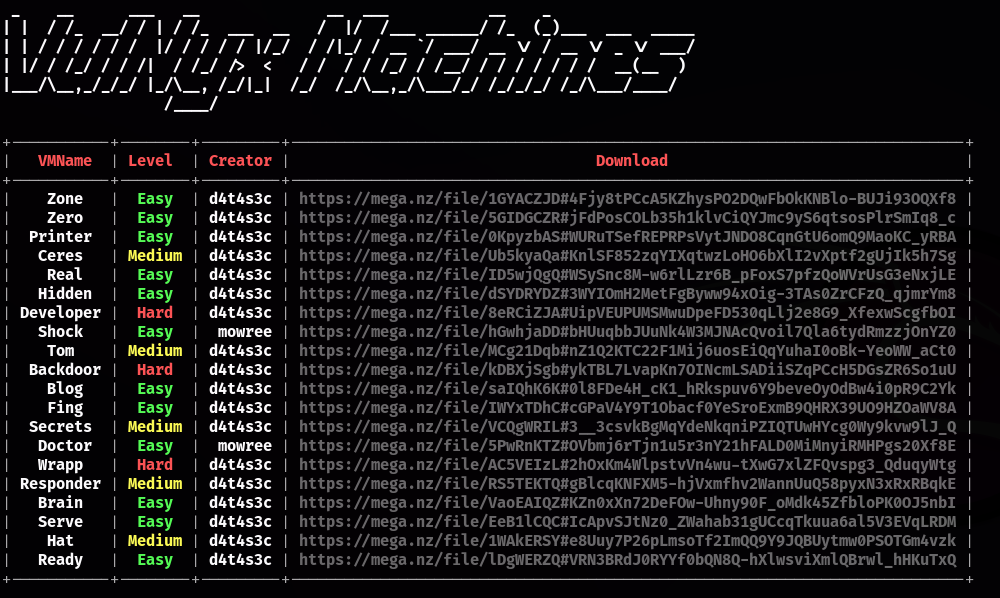
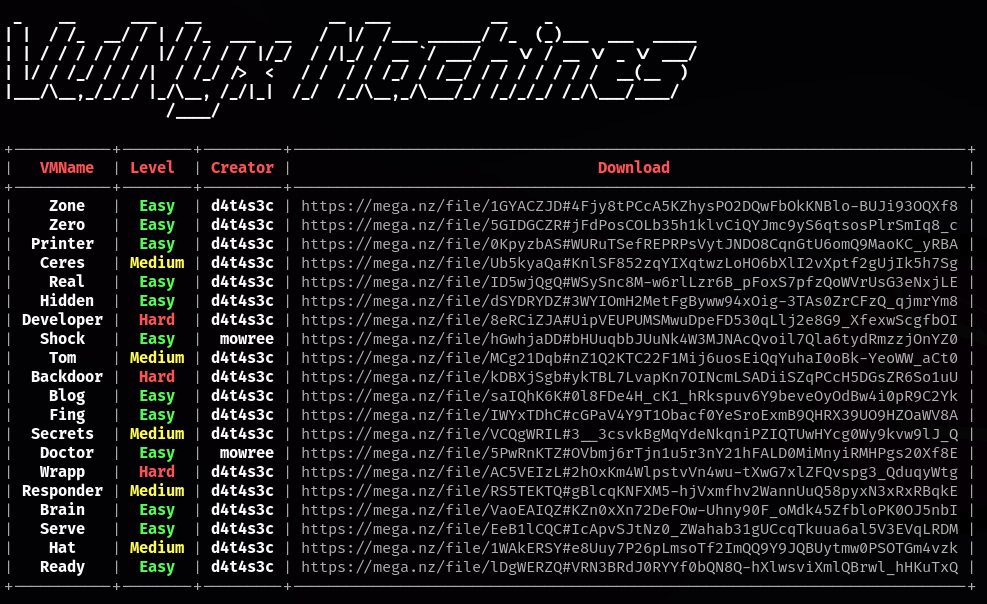
Add files via upload

diff --git a/VulNyx.py b/VulNyx.py
@@ -11,7 +11,7 @@ def c_screen_windows():
     os.system('cls')
 
 def c_screen():
-    
+
     if os.name == 'posix':
         c_screen_unix()
 
@@ -63,7 +63,7 @@ def show_machines(level=None):
                 f"\033[1;37m{vname}\033[0m",
                 colorize_level(machine_level),
                 f"\033[1;37m{creator}\033[0m",
-                f"\033[1;30m{download_link}\033[0m"])
+                f"\033[0;37m{download_link}\033[0m"])
 
     print(table)
 
